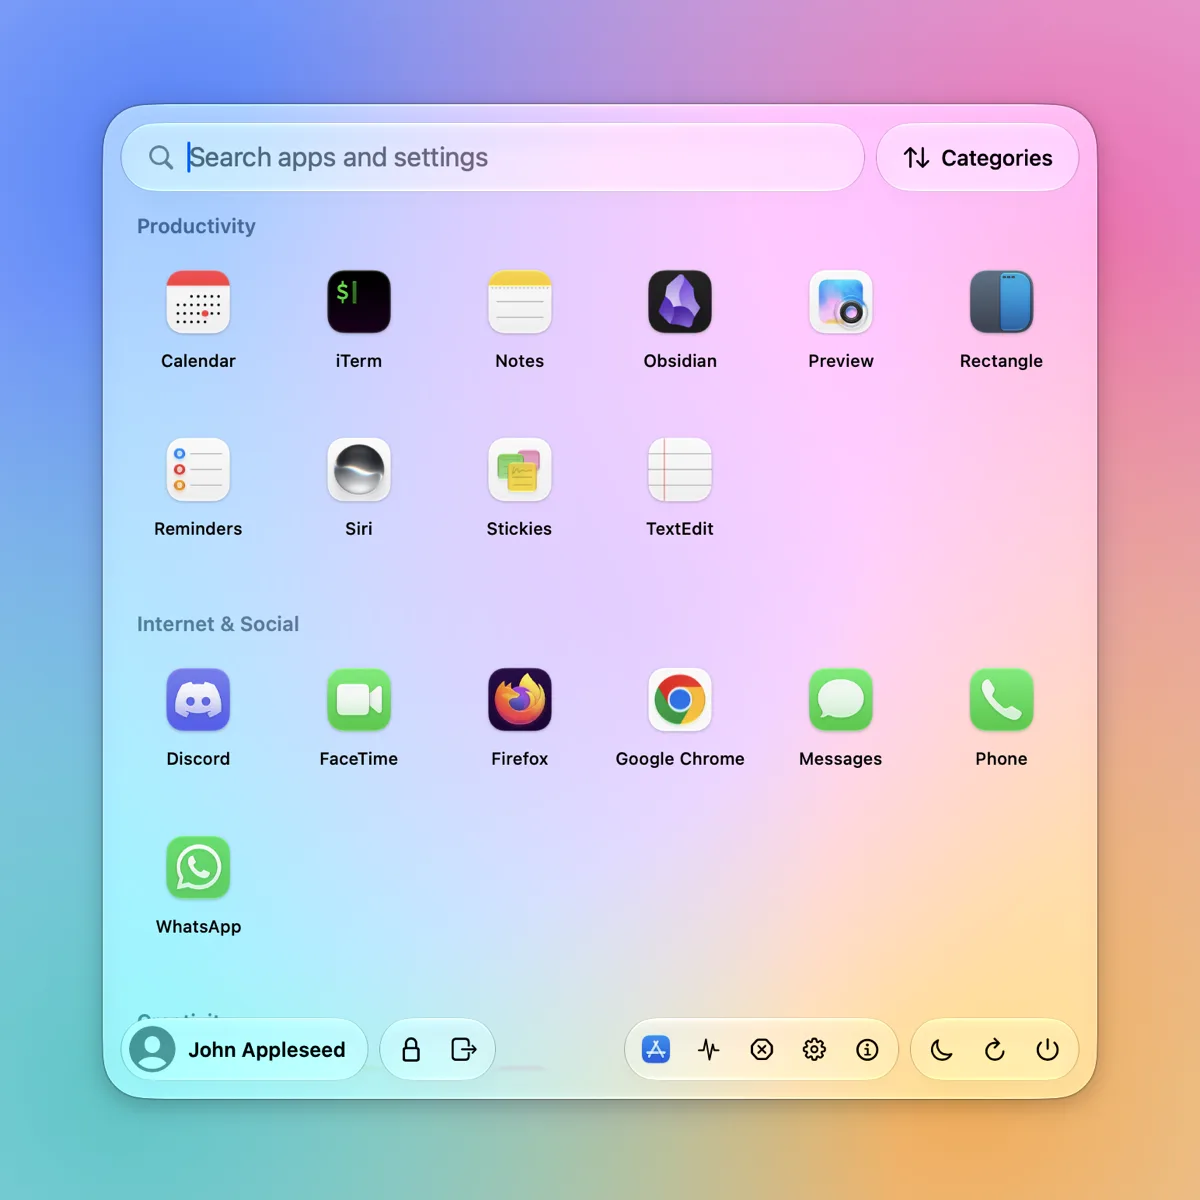
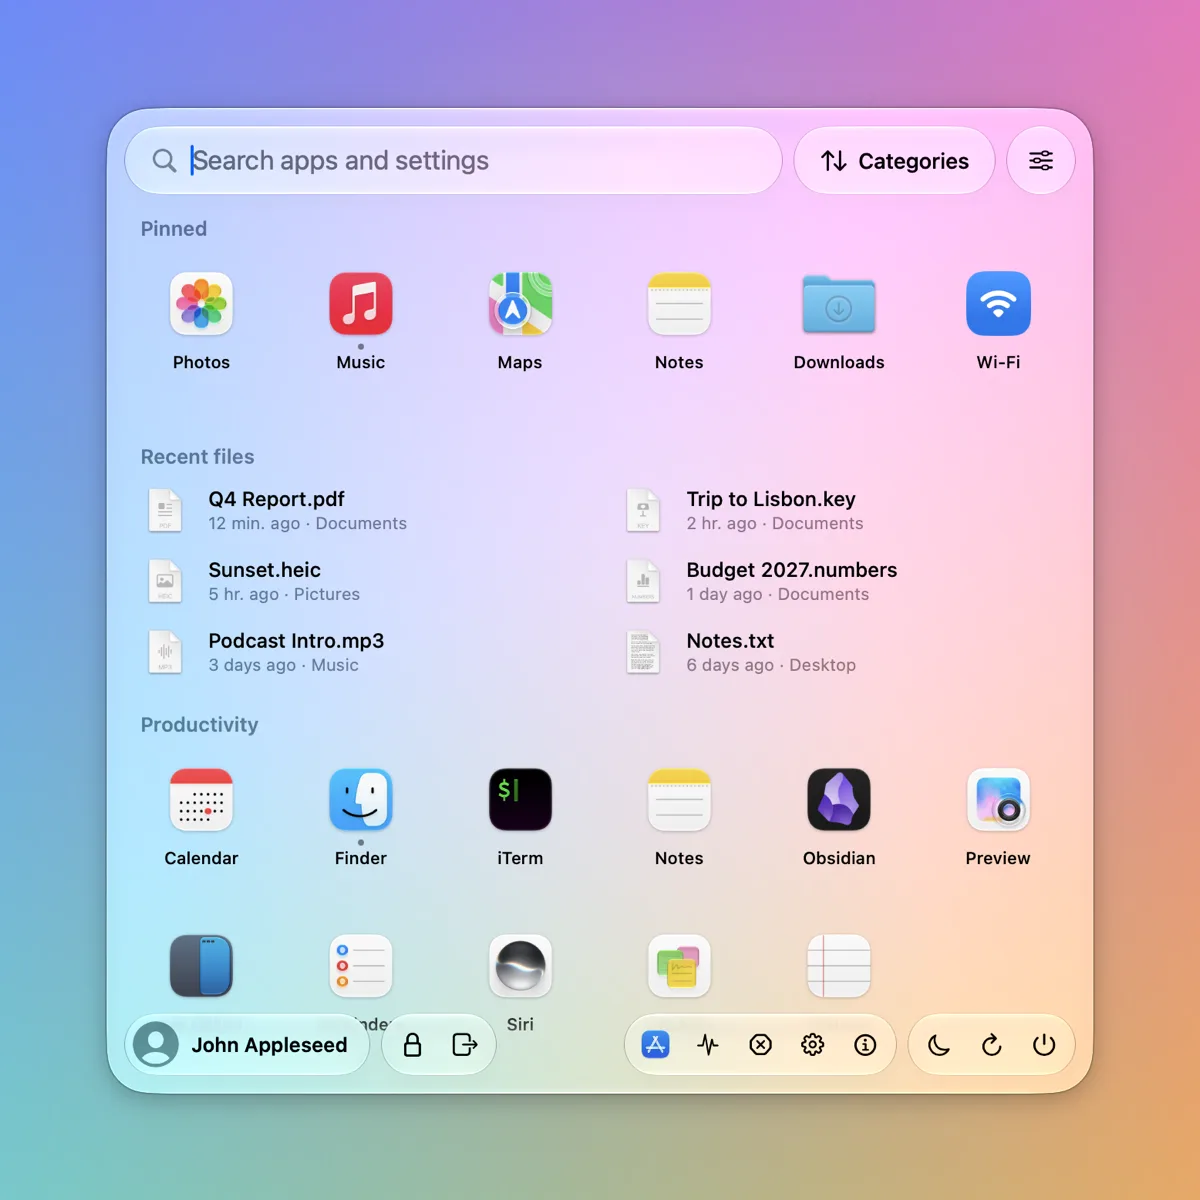
Website: new screenshots (pinned items, recent files, settings button); demo mode shows generic recent files

diff --git a/Sources/StartMenu/RecentFiles.swift b/Sources/StartMenu/RecentFiles.swift
@@ -61,6 +61,10 @@ final class RecentFiles {
 
     /// Runs a new query unless one is already running; cheap enough on every opening.
     func refresh() {
+        if UserProfile.isDemo {
+            loadDemoFiles()
+            return
+        }
         guard query == nil else { return }
         let query = NSMetadataQuery()
         query.searchScopes = [NSMetadataQueryUserHomeScope]
@@ -71,6 +75,25 @@ final class RecentFiles {
         ) { [weak self] _ in self?.finish() }
         self.query = query
         query.start()
+    }
+
+    /// Screenshots (`STARTMENU_DEMO=1`): generic documents, not the user's.
+    private func loadDemoFiles() {
+        guard files.isEmpty else { return }
+        let home = FileManager.default.homeDirectoryForCurrentUser
+        let demo: [(String, String, TimeInterval)] = [
+            ("Documents/Q4 Report.pdf", "com.adobe.pdf", 12 * 60),
+            ("Documents/Trip to Lisbon.key", "com.apple.iwork.keynote.key", 2 * 3600),
+            ("Pictures/Sunset.heic", "public.heic", 5 * 3600),
+            ("Documents/Budget 2027.numbers", "com.apple.iwork.numbers.numbers", 26 * 3600),
+            ("Music/Podcast Intro.mp3", "public.mp3", 3 * 86_400),
+            ("Desktop/Notes.txt", "public.plain-text", 6 * 86_400),
+        ]
+        files = demo.map { path, type, age in
+            FileEntry(url: home.appendingPathComponent(path), typeIdentifier: type,
+                      lastUsed: Date(timeIntervalSinceNow: -age))
+        }
+        onChange()
     }
 
     private func finish() {

diff --git a/docs/bn/index.html b/docs/bn/index.html
@@ -376,7 +376,7 @@
     <p class="note">ফ্রি · <a href="https://ko-fi.com/corentingautier">☕ Ko-fi-তে সমর্থন করুন</a> · সোর্স GitHub-এ · macOS 26 Tahoe বা পরের সংস্করণ · Apple silicon</p>
   </div>
   <div class="shot-hero">
-    <img src="../img/glass-categories.webp" width="1200" height="1200" fetchpriority="high" alt="Liquid Glass স্টাইলে Start Menu প্যানেল: বিভাগ অনুযায়ী সাজানো অ্যাপ, নিচে অ্যাকাউন্ট ও পাওয়ার বোতাম।">
+    <img src="../img/glass-categories.webp" width="1200" height="1200" fetchpriority="high" alt="Liquid Glass স্টাইলে Start Menu প্যানেল: পিন করা অ্যাপ, ফোল্ডার ও সেটিং, সাম্প্রতিক ফাইল, তারপর বিভাগ অনুযায়ী অ্যাপ, নিচে অ্যাকাউন্ট ও পাওয়ার বোতাম।">
   </div>
 </header>
 

diff --git a/docs/hi/index.html b/docs/hi/index.html
@@ -376,7 +376,7 @@
     <p class="note">फ़्री · <a href="https://ko-fi.com/corentingautier">☕ Ko-fi पर सपोर्ट करें</a> · सोर्स GitHub पर · macOS 26 Tahoe या बाद का · Apple silicon</p>
   </div>
   <div class="shot-hero">
-    <img src="../img/glass-categories.webp" width="1200" height="1200" fetchpriority="high" alt="Liquid Glass शैली में स्टार्ट मेन्यू पैनल: श्रेणी के अनुसार समूहित ऐप्स, और नीचे अकाउंट व पावर बटन।">
+    <img src="../img/glass-categories.webp" width="1200" height="1200" fetchpriority="high" alt="Liquid Glass शैली में Start Menu पैनल: पिन किए गए ऐप्स, फ़ोल्डर और सेटिंग, हाल की फ़ाइलें, फिर श्रेणी के अनुसार ऐप्स, नीचे खाता और पावर बटन।">
   </div>
 </header>
 

diff --git a/docs/ru/index.html b/docs/ru/index.html
@@ -376,7 +376,7 @@
     <p class="note">Бесплатно · <a href="https://ko-fi.com/corentingautier">☕ поддержать на Ko-fi</a> · исходный код на GitHub · macOS 26 Tahoe или новее · Apple silicon</p>
   </div>
   <div class="shot-hero">
-    <img src="../img/glass-categories.webp" width="1200" height="1200" fetchpriority="high" alt="Панель Start Menu в стиле Liquid Glass: приложения сгруппированы по категориям, внизу — кнопки учетной записи и питания.">
+    <img src="../img/glass-categories.webp" width="1200" height="1200" fetchpriority="high" alt="Панель Start Menu в стиле Liquid Glass: закреплённые приложения, папка и настройка, недавние файлы, затем приложения по категориям, внизу кнопки учётной записи и питания.">
   </div>
 </header>
 

diff --git a/docs/ar/index.html b/docs/ar/index.html
@@ -383,7 +383,7 @@
     <p class="note">مجاني · <a href="https://ko-fi.com/corentingautier">☕ ادعمه على Ko-fi</a> · الشيفرة المصدرية على GitHub · macOS 26 Tahoe أو أحدث · Apple silicon</p>
   </div>
   <div class="shot-hero">
-    <img src="../img/glass-categories.webp" width="1200" height="1200" fetchpriority="high" alt="لوحة Start Menu بنمط Liquid Glass، تعرض التطبيقات مجمّعة حسب الفئة مع زر الحساب وأزرار الطاقة في الأسفل.">
+    <img src="../img/glass-categories.webp" width="1200" height="1200" fetchpriority="high" alt="لوحة Start Menu بنمط Liquid Glass: تطبيقات ومجلد وإعداد مثبتة، والملفات الحديثة، ثم التطبيقات مجمعة حسب الفئة، مع أزرار الحساب والطاقة في الأسفل.">
   </div>
 </header>
 

diff --git a/docs/ja/index.html b/docs/ja/index.html
@@ -376,7 +376,7 @@
     <p class="note">無料 · <a href="https://ko-fi.com/corentingautier">☕ Ko-fiで支援</a> · ソースはGitHubで公開 · macOS 26 Tahoe以降 · Appleシリコン</p>
   </div>
   <div class="shot-hero">
-    <img src="../img/glass-categories.webp" width="1200" height="1200" fetchpriority="high" alt="Liquid GlassスタイルのStart Menuパネル。アプリがカテゴリ別に並び、下部にアカウントと電源のボタンがある。">
+    <img src="../img/glass-categories.webp" width="1200" height="1200" fetchpriority="high" alt="Liquid GlassスタイルのStart Menuパネル：ピン留めしたアプリ、フォルダ、設定、最近使ったファイル、カテゴリ別のアプリ、下部にアカウントと電源のボタン。">
   </div>
 </header>
 

diff --git a/docs/fr/index.html b/docs/fr/index.html
@@ -377,7 +377,7 @@
     <p class="note">Gratuit · <a href="https://ko-fi.com/corentingautier">☕ le soutenir sur Ko-fi</a> · code source sur GitHub · macOS 26 Tahoe ou ultérieur · puce Apple</p>
   </div>
   <div class="shot-hero">
-    <img src="../img/glass-categories.webp" width="1200" height="1200" fetchpriority="high" alt="Le panneau Start Menu en style Liquid Glass : apps regroupées par catégorie, boutons du compte et d’alimentation en bas.">
+    <img src="../img/glass-categories.webp" width="1200" height="1200" fetchpriority="high" alt="Le panneau Start Menu en style Liquid Glass : apps, dossier et réglage épinglés, fichiers récents, puis apps regroupées par catégorie, boutons du compte et d’alimentation en bas.">
   </div>
 </header>
 

diff --git a/docs/pt/index.html b/docs/pt/index.html
@@ -376,7 +376,7 @@
     <p class="note">Grátis · <a href="https://ko-fi.com/corentingautier">☕ apoie no Ko-fi</a> · código-fonte no GitHub · macOS 26 Tahoe ou posterior · Apple silicon</p>
   </div>
   <div class="shot-hero">
-    <img src="../img/glass-categories.webp" width="1200" height="1200" fetchpriority="high" alt="O painel do Start Menu no estilo Liquid Glass, com os apps agrupados por categoria e os botões de conta e de energia na parte de baixo.">
+    <img src="../img/glass-categories.webp" width="1200" height="1200" fetchpriority="high" alt="O painel do Start Menu no estilo Liquid Glass: apps, pasta e ajuste fixados, arquivos recentes e apps agrupados por categoria, com os botões de conta e energia embaixo.">
   </div>
 </header>
 

diff --git a/docs/es/index.html b/docs/es/index.html
@@ -376,7 +376,7 @@
     <p class="note">Gratis · <a href="https://ko-fi.com/corentingautier">☕ apóyalo en Ko-fi</a> · código en GitHub · macOS 26 Tahoe o posterior · chip de Apple</p>
   </div>
   <div class="shot-hero">
-    <img src="../img/glass-categories.webp" width="1200" height="1200" fetchpriority="high" alt="El panel de Start Menu con el estilo Liquid Glass: apps agrupadas por categoría y, abajo, los botones de cuenta y de apagado.">
+    <img src="../img/glass-categories.webp" width="1200" height="1200" fetchpriority="high" alt="El panel de Start Menu con el estilo Liquid Glass: apps, carpeta y ajuste fijados, archivos recientes y apps agrupadas por categoría, con los botones de cuenta y energía abajo.">
   </div>
 </header>
 

diff --git a/docs/index.html b/docs/index.html
@@ -376,7 +376,7 @@
     <p class="note">Free · <a href="https://ko-fi.com/corentingautier">☕ support it on Ko-fi</a> · source on GitHub · macOS 26 Tahoe or later · Apple silicon</p>
   </div>
   <div class="shot-hero">
-    <img src="img/glass-categories.webp" width="1200" height="1200" fetchpriority="high" alt="The Start Menu panel in the Liquid Glass style, showing apps grouped by category with the account and power buttons at the bottom.">
+    <img src="img/glass-categories.webp" width="1200" height="1200" fetchpriority="high" alt="The Start Menu panel in the Liquid Glass style: pinned apps, folder and setting, recent files, then apps grouped by category, with the account and power buttons at the bottom.">
   </div>
 </header>
 

diff --git a/docs/zh/index.html b/docs/zh/index.html
@@ -376,7 +376,7 @@
     <p class="note">免费 · <a href="https://ko-fi.com/corentingautier">☕ 在 Ko-fi 上支持</a> · GitHub 开源 · macOS 26 Tahoe 或更高版本 · Apple 芯片</p>
   </div>
   <div class="shot-hero">
-    <img src="../img/glass-categories.webp" width="1200" height="1200" fetchpriority="high" alt="液态玻璃样式的 Start Menu 面板，App 按分类排列，底部是账户和电源按钮。">
+    <img src="../img/glass-categories.webp" width="1200" height="1200" fetchpriority="high" alt="液态玻璃风格的 Start Menu 面板：已固定的 App、文件夹和设置，最近的文件，然后是按类别分组的 App，底部是账户和电源按钮。">
   </div>
 </header>
 

diff --git a/README.md b/README.md
@@ -191,8 +191,10 @@ button points to, and bumps the Homebrew cask (version and sha256) in
 `docs/img` screenshots are taken in demo mode (`STARTMENU_DEMO=1` shows a
 generic account, `STARTMENU_DEMO_QUERY` pre-fills the search,
 `STARTMENU_DEMO_BACKDROP=<image>` centers the panel over that image so the
-glass has colors to refract), capturing the panel and its backdrop with
-`screencapture -R`.
+glass has colors to refract, and recent files are generic examples),
+capturing the panel and its backdrop with `screencapture -R`, then resized
+to 1200 px and converted with `cwebp`. `docs/img/og.jpg` is
+`docs/src/og.html` rendered by headless Chrome at 1200×630.
 
 ## Support
 
